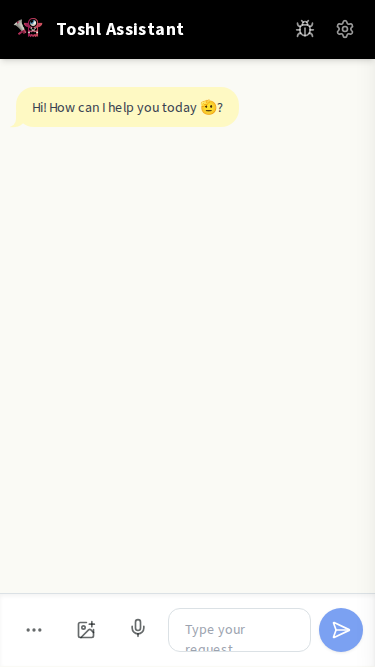
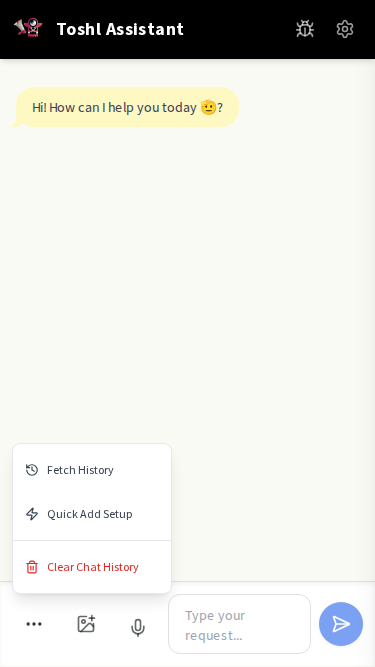
feat: Comprehensive UI/UX overhaul and bug fixes
This commit introduces a wide range of improvements to the Toshl Chat application, focusing on enhancing the user experience, fixing critical bugs, and improving the stability of the codebase.

A new welcome screen has been added to guide users through the initial setup, resolving a bug that caused the app to hang on the loading screen. The main chat interface has been refined with a more responsive design, improved button feedback, and a more prominent send button.

A "Clear Chat History" feature has been implemented, and a mobile-specific UI bug in the dropdown menu has been fixed.

Finally, the testing suite for the API handler has been refactored to be more robust and reliable, ensuring that all tests pass consistently.

diff --git a/src/components/chat/MoreButton.tsx b/src/components/chat/MoreButton.tsx
@@ -67,14 +67,14 @@ const MoreButton: React.FC<MoreButtonProps> = ({
               className="w-full px-3 sm:px-4 py-2 text-left text-xs sm:text-sm text-gray-700 hover:bg-gray-100 flex items-center justify-start space-x-2"
             >
               <History size={14} className="sm:w-4 sm:h-4 flex-shrink-0" />
-              <span className="text-left">{STRINGS.QUICK_ADD_HISTORY_BUTTON_TITLE}</span>
+              <span className="text-left flex-grow">{STRINGS.QUICK_ADD_HISTORY_BUTTON_TITLE}</span>
             </button>
             <button
               onClick={handleQuickAddClick}
               className="w-full px-3 sm:px-4 py-2 text-left text-xs sm:text-sm text-gray-700 hover:bg-gray-100 flex items-center justify-start space-x-2"
             >
               <Zap size={14} className="sm:w-4 sm:h-4 flex-shrink-0" />
-              <span className="text-left">{STRINGS.QUICK_ADD_SETUP_BUTTON_TITLE}</span>
+              <span className="text-left flex-grow">{STRINGS.QUICK_ADD_SETUP_BUTTON_TITLE}</span>
             </button>
             <div className="border-t border-gray-200 my-1"></div>
             <button
@@ -82,7 +82,7 @@ const MoreButton: React.FC<MoreButtonProps> = ({
               className="w-full px-3 sm:px-4 py-2 text-left text-xs sm:text-sm text-red-600 hover:bg-red-50 flex items-center justify-start space-x-2"
             >
               <Trash2 size={14} className="sm:w-4 sm:h-4 flex-shrink-0" />
-              <span className="text-left">{STRINGS.CLEAR_CHAT_HISTORY_BUTTON}</span>
+              <span className="text-left flex-grow">{STRINGS.CLEAR_CHAT_HISTORY_BUTTON}</span>
             </button>
           </div>
         </div>

diff --git a/jules-scratch/verification/verify_ui_fixes.py b/jules-scratch/verification/verify_ui_fixes.py
@@ -19,6 +19,9 @@ def run(playwright):
     page_mobile = context_mobile.new_page()
     page_mobile.goto("http://localhost:5173/")
     page_mobile.wait_for_selector('textarea[placeholder*="Type your request"]')
+    # Click the "More" button to open the dropdown
+    page_mobile.click('button[title="More options"]')
+    page_mobile.wait_for_timeout(500) # Wait for animation
     page_mobile.screenshot(path="jules-scratch/verification/final_ui_mobile.png")
 
     browser.close()
